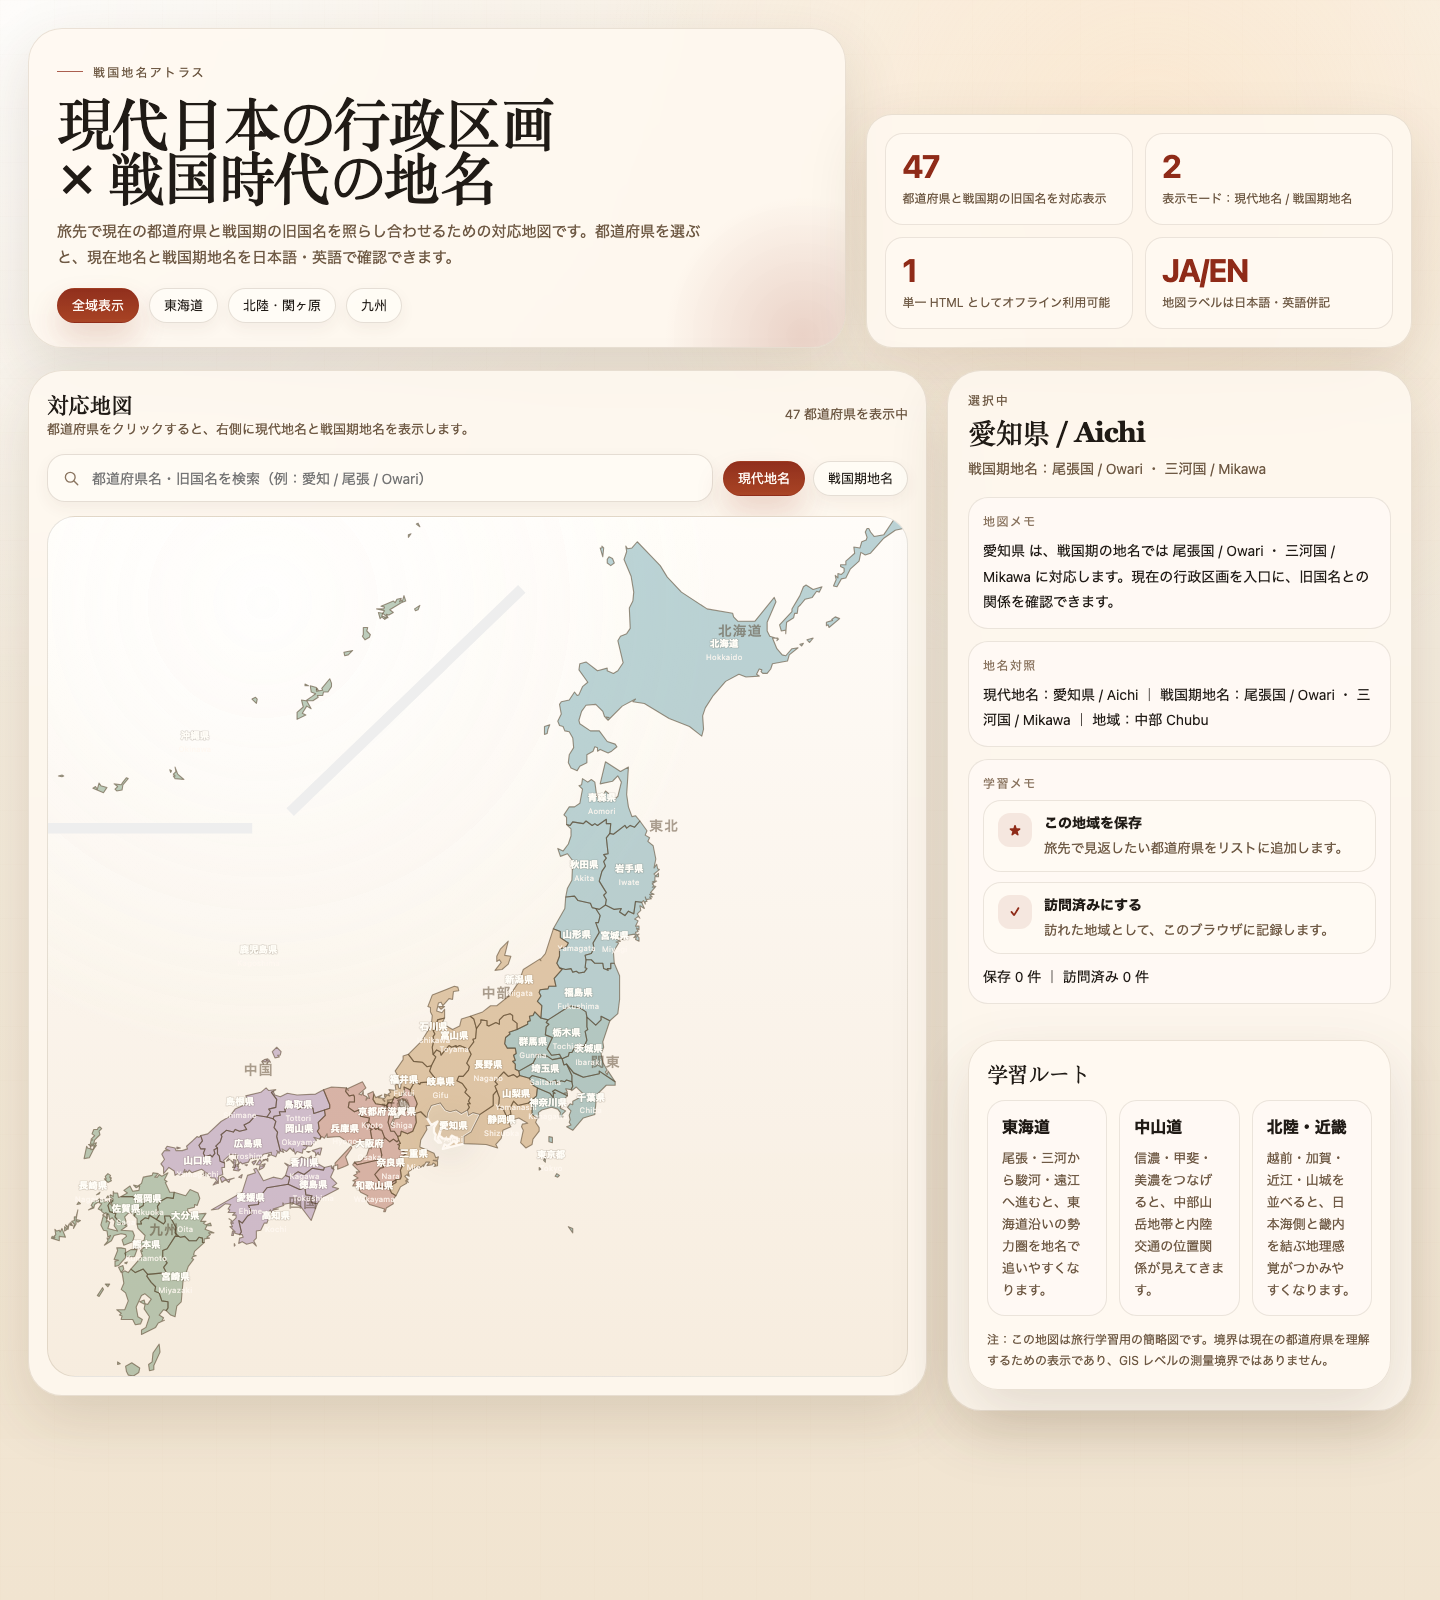
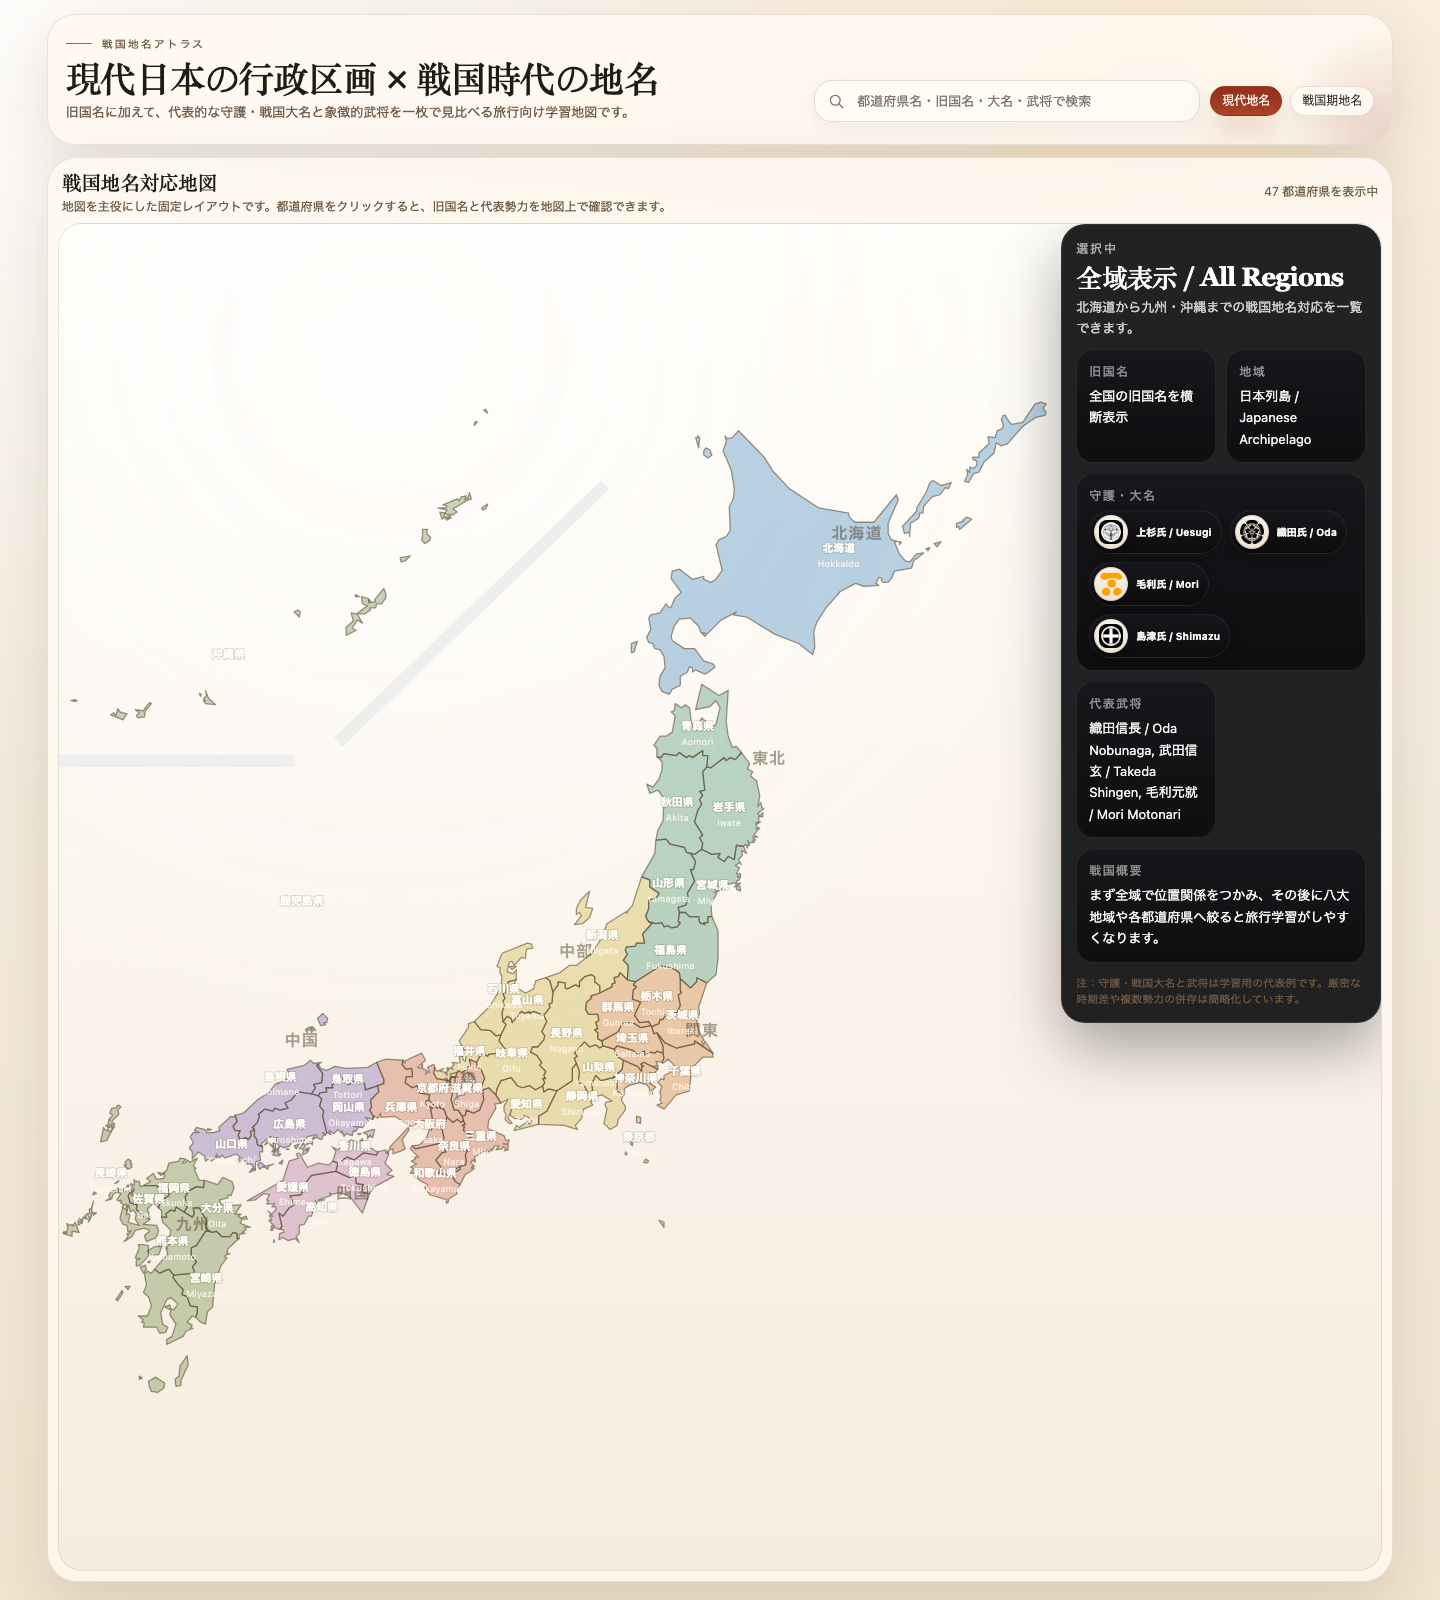
Refresh preview and translate docs to English

diff --git a/README.md b/README.md
@@ -1,6 +1,6 @@
 # Sengoku Codex
 
-日本现代行政区划与战国时代旧地名对照地图。
+An interactive map that connects modern Japanese prefectures with Sengoku-period place names.
 
 [Live Demo](https://sakagami-yoshitoshi.github.io/sengoku-codex/) · [Release v0.1.0](https://github.com/sakagami-yoshitoshi/sengoku-codex/releases/tag/v0.1.0) · [Source Code](./src/)
 
@@ -8,60 +8,65 @@
 
 ## What It Is
 
-Sengoku Codex 是一个面向桌面端浏览的静态网页地图项目，用来把现代日本都道府县、战国时代旧国名、代表性守护 / 大名、代表武将，放在同一张交互地图中学习。
+Sengoku Codex is a desktop-first static web map for learning how present-day Japanese prefectures relate to Sengoku-era provinces, regional powers, and notable historical figures.
 
-这个项目特别适合旅行前做路线预习，或者在日本各地移动时快速对照“我现在所在的现代行政区”和“这里在战国史里到底属于哪里”。
+It is designed for history-oriented travel planning and on-the-go reference, so you can quickly answer questions like: "Which modern prefecture am I in?" and "What was this area called during the Sengoku period?"
 
 ## Highlights
 
-- 覆盖日本 47 个都道府县
-- 现代地名与战国旧国名采用日文 / 英文双语显示
-- 默认全域视图以现代日本八大区域配色显示
-- 点击都道府县后自动切换到局部放大视图
-- 局部视图显示主要城市位置
-- 右侧信息面板显示旧国名、区域、代表大名、代表武将与战国概要
-- 前端已拆分为 `HTML + CSS + JavaScript` 多文件结构，便于后续维护
+- Covers all 47 Japanese prefectures
+- Displays modern names and Sengoku-era place names in Japanese and English
+- Uses the modern eight-region color grouping in the default full-map view
+- Switches to a zoomed local view when a prefecture is selected
+- Shows major city labels inside the zoomed prefecture view
+- Includes an information panel with provinces, regional grouping, daimyo, notable figures, and a short historical summary
+- Uses a split `HTML + CSS + JavaScript` frontend structure for easier maintenance
 
 ## Live Access
 
 - GitHub Pages:
   `https://sakagami-yoshitoshi.github.io/sengoku-codex/`
 
-如果页面还没刷新出来，通常是因为 GitHub Pages 工作流还在部署中，几分钟后再访问即可。
+If the page has not refreshed yet, GitHub Pages is usually still deploying. Please check again in a few minutes.
 
 ## Repository Layout
 
 - `src/`
-  - 项目源码目录
-  - `index.html` 为主页面源码
-  - `assets/app.css` 为共享样式
-  - `assets/app.js` 为共享交互逻辑
-  - `japan-prefectures.svg` 为矢量底图源码
+  - Main source directory
+  - `index.html` is the primary authoring entrypoint
+  - `assets/app.css` contains shared styling
+  - `assets/app.js` contains shared interaction logic
+  - `japan-prefectures.svg` is the vector base map source
 - `docs/`
-  - GitHub Pages 发布目录
-  - `assets/preview.png` 为仓库首页预览图
+  - GitHub Pages publishing directory
+  - `assets/preview.png` is the repository preview image
 - `outputs/`
-  - 当前导出的交付版本备份
+  - Standalone exported delivery snapshot
 - `.github/workflows/`
-  - GitHub Pages 自动部署工作流
+  - GitHub Pages deployment workflow
 
 ## Local Use
 
-直接在浏览器打开以下任一文件即可：
+Open either of the following files in a browser:
 
 - `src/index.html`
 - `outputs/japan-sengoku-map.html`
 
 ## Current Release
 
-当前首个公开整理版本：
+Current public release:
 
 - `v0.1.0`
 
-发布内容见：
+Release details:
 
 - [CHANGELOG.md](./CHANGELOG.md)
 - [GitHub Release v0.1.0](https://github.com/sakagami-yoshitoshi/sengoku-codex/releases/tag/v0.1.0)
+
+## Documentation Policy
+
+- Repository documentation is maintained in English.
+- The application interface itself remains in Japanese, with bilingual historical and modern place-name labels where implemented.
 
 ## License
 

diff --git a/CHANGELOG.md b/CHANGELOG.md
@@ -2,10 +2,10 @@
 
 ## v0.1.0
 
-- 发布日本战国地名与现代行政区划对照地图首个版本
-- 完成 47 都道府县交互浏览
-- 完成现代地名 / 战国地名日英双语显示
-- 完成都道府县点击放大与主要城市标注
-- 完成大名、武将与战国概要信息面板
-- 整理 `src/`、`docs/`、`outputs/` 三层目录结构
-- 增加 GitHub Pages 自动部署工作流
+- First public release of the Sengoku-to-modern Japan reference map
+- Added interactive exploration for all 47 prefectures
+- Added bilingual modern and Sengoku-era place-name labels
+- Added prefecture zoom interactions and major city labels
+- Added information panels for daimyo, notable figures, and historical summaries
+- Organized the project into `src/`, `docs/`, and `outputs/`
+- Added an automated GitHub Pages deployment workflow